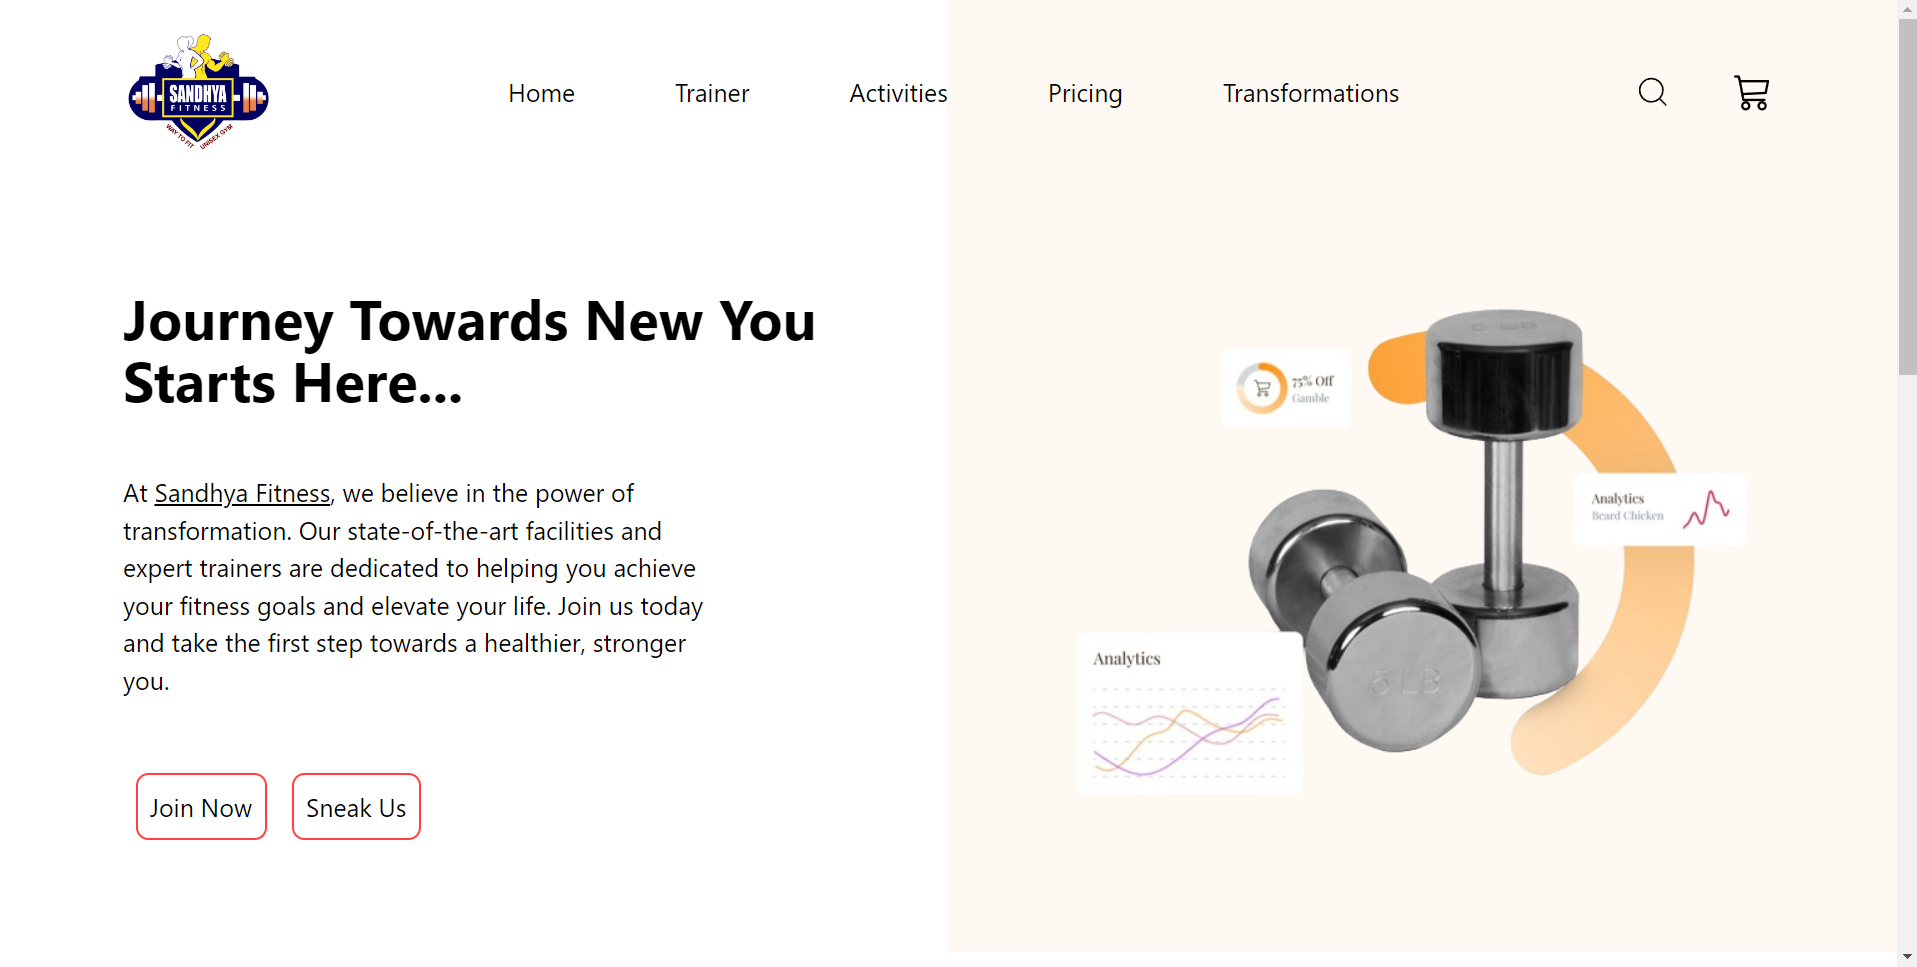
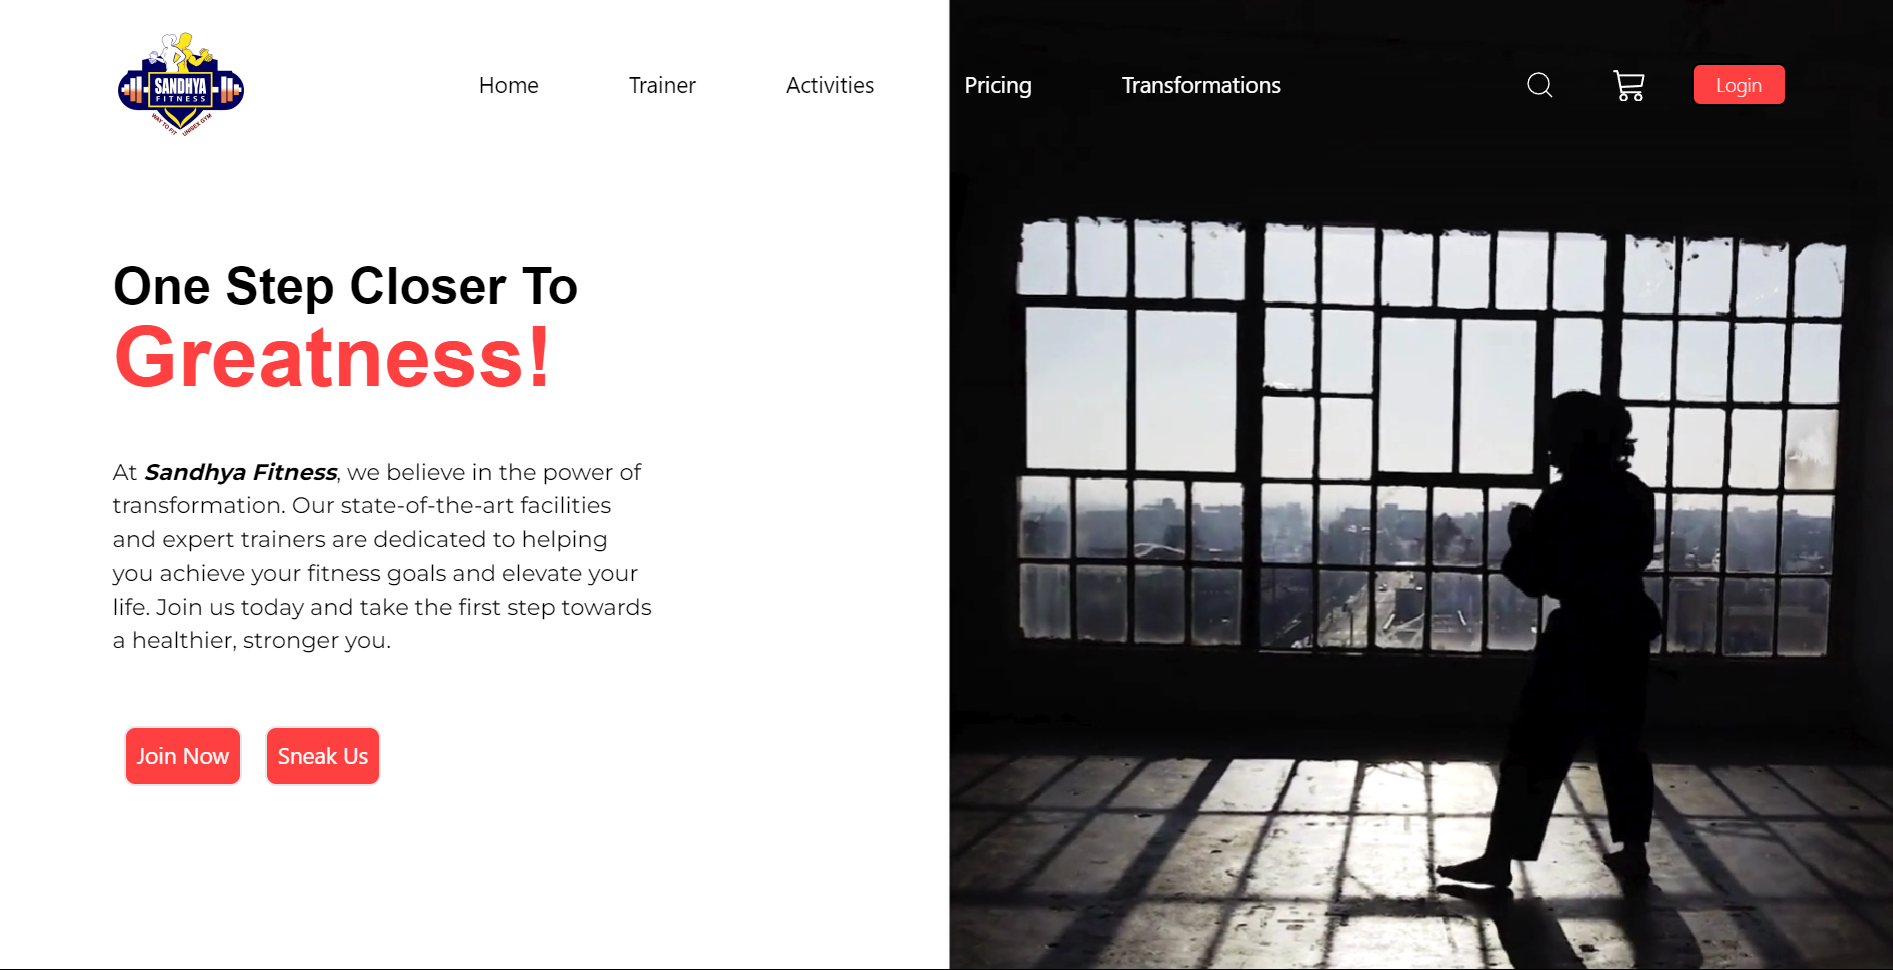
Ui

diff --git a/src/components/Home/NavbarTwo.jsx b/src/components/Home/NavbarTwo.jsx
@@ -15,19 +15,19 @@ const Navbar = () => {
         <img src={Logo} height={120} width={120} alt="" />
       </div>
       <div className="hidden  lg:block">
-        <Link to="/" className="lg:m-8">
+        <Link to="/" className="lg:m-8 underline-effect">
           Home
         </Link>
-        <Link to="/trainers" className="lg:m-8">
+        <Link to="/trainers" className="lg:m-8 underline-effect">
           Trainer
         </Link>
-        <Link to="/activities" className="lg:m-8">
+        <Link to="/activities" className="lg:m-8 underline-effect">
           Activities
         </Link>
-        <Link to="/pricing" className="lg:m-8 ">
+        <Link to="/pricing" className="lg:m-8 underline-effect">
           Pricing
         </Link>
-        <Link to="/transformations" className="lg:m-8 ">
+        <Link to="/transformations" className="lg:m-8 underline-effect">
           Transformations
         </Link>
       </div>
@@ -41,7 +41,7 @@ const Navbar = () => {
           <BsCart3 />
         </div>
         <button
-          className="font-thin text-sm border-2 border-black transition-colors duration-2000  px-4 rounded-md 
+          className="font-thin text-sm  border-black transition-colors duration-2000  px-4 rounded-md 
         active:text-white active:bg-black bg-coral-red py-1 text-slate-100"
         >
           Login
